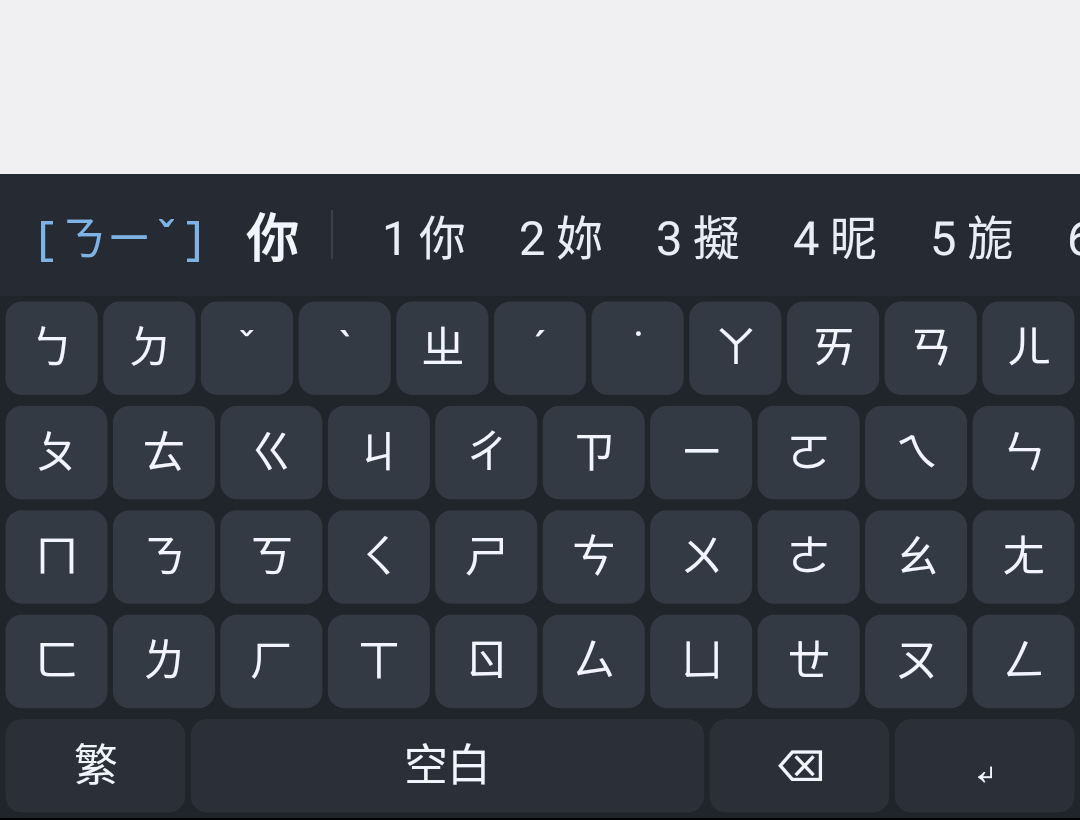
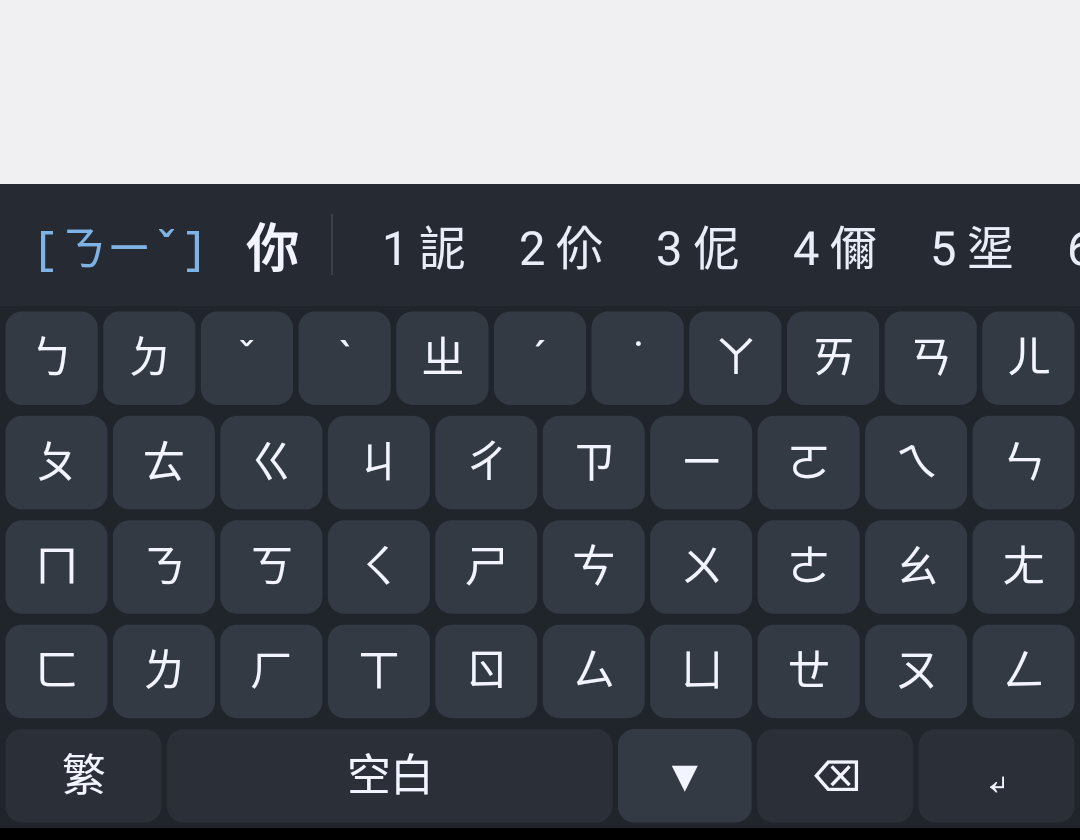
fix(android): 手机上够不到第二页候选 —— 底排补一个浏览键 ▼
翻页在共享路由里是 ↓ 的职责（单没开就开、开了翻十笔），而手机键盘上没有 ↓，
空白在单开着时又是「送出」：第一页十个之后的候选**永远取不到**。

- `Router.kt` 的 `'\u000b'` 补成和桌面版一致：开着 → `NextPage`，没开 →
  `OpenCandidates`（此前只会开）
- 底排加一个 ▼ 键（`'\u000b'`，正是 router 一直当作 ↓ 读的那个字符）
- JVM 测试加 `theDownArrowPagesOnceTheListIsOpen`

模拟器实测：打 `su3`、空白开单显示 `1 你 2 妳 3 擬…`，按 ▼ 翻页换成
`1 鬮 2 噵 3 ▯ 4 儗 5 坭…`，再按两下继续往后。README 的 Android 配图换成带 ▼ 的这张；
`android/README.md` 里「空白有选字单时翻页」那句也一并改准（翻页不归空白管）。

diff --git a/android/app/src/main/java/tw/pingzhu/ime/Router.kt b/android/app/src/main/java/tw/pingzhu/ime/Router.kt
@@ -46,8 +46,20 @@ object Router {
         // user is editing — a shell that swallows it makes the key stop
         // deleting, which is how this was found (the shared vectors).
         '\b', '\u007f' -> if (composing) Action.Backspace else Action.Pass
-        // Nothing to browse without a composition to resolve.
-        '\u000b' -> if (composing && hasCandidates) Action.OpenCandidates else Action.Pass
+        // The browsing key, and one key for both halves of browsing: press it
+        // with the list closed and it opens; press it with the list open and it
+        // moves on ten. Nothing to browse without a composition to resolve.
+        //
+        // This mirrors the desktop shells' down arrow exactly (windows/src/
+        // router.cpp, `case KeyKind::ArrowDown`). It used to only open, which
+        // left every candidate past the first ten unreachable on a phone: the
+        // keyboard has no arrow keys, so this key is the only way to ask for
+        // page two.
+        '\u000b' -> when {
+            !composing || !hasCandidates -> Action.Pass
+            windowOpen -> Action.NextPage
+            else -> Action.OpenCandidates
+        }
         '\u000c' -> Action.CloseCandidates // form feed: the up arrow
         // Space ends in an acceptance, but not on its first press. A first press
         // that committed would leave the second candidate unreachable unless the

diff --git a/android/app/src/main/java/tw/pingzhu/ime/PingZhuImeService.kt b/android/app/src/main/java/tw/pingzhu/ime/PingZhuImeService.kt
@@ -264,6 +264,14 @@ class PingZhuImeService : InputMethodService() {
         val bottom = listOf(
             scriptKey,
             KeyboardView.Key(' ', "空白", weight = 4f, function = KeyboardView.Key.Function.Space),
+            /*
+             * The browsing key. A phone board has no arrow keys, so the job the
+             * desktop shells give the down arrow — open the list, then move on
+             * ten — needs a key of its own, or nothing past the first ten
+             * candidates can be reached. The character is the one the router has
+             * always read as a down arrow (Router.kt).
+             */
+            KeyboardView.Key('\u000b', "▼", weight = 1.2f),
             KeyboardView.Key(
                 '\b', "⌫", weight = 1.4f,
                 function = KeyboardView.Key.Function.Backspace,

diff --git a/android/app/src/test/java/tw/pingzhu/ime/RouterTest.kt b/android/app/src/test/java/tw/pingzhu/ime/RouterTest.kt
@@ -152,4 +152,13 @@ class RouterTest {
         assertEquals(Action.Pass, composing('\u000b'))
         assertEquals(Action.Pass, idle('\u000b'))
     }
+
+    @Test
+    fun theDownArrowPagesOnceTheListIsOpen() {
+        // One key for both halves of browsing, as on the desktop: with the list
+        // already open the same press moves on ten instead of reopening the
+        // first page. On a phone this is the only way to reach candidate eleven
+        // — the board has no arrow keys to do it with.
+        assertEquals(Action.NextPage, choosing('\u000b'))
+    }
 }

diff --git a/android/README.md b/android/README.md
@@ -45,9 +45,9 @@ Rust 那边有两个测试把两者钉在一起：
 APK、不需要装置。
 
 这些规则不是重新设计的——它们和 Windows 的 router 逐条对应，因为**真正重要的规则
-跟平台无关**：空白键在没有选字单时送出整句、有选字单时翻页；数字键在选字单打开前
-是注音键。第二条 Windows 版曾经做错过一个版本，代价是**所有以 ㄅㄉㄓㄚㄞㄢ 开头的字
-都打不出来**。
+跟平台无关**：空白键在组字中、单还没开时开单，单开着时送出整句；翻页归浏览键管
+（桌面版是 ↓，手机上是底排的 ▼）；数字键在选字单打开前是注音键。最后一条 Windows 版
+曾经做错过一个版本，代价是**所有以 ㄅㄉㄓㄚㄞㄢ 开头的字都打不出来**。
 
 ### 零权限
 
@@ -83,7 +83,8 @@ w96j0         → 台灣
 
 | 键 | 行为 |
 |---|---|
-| 空白 | 组字中、单没开、有候选 → **开候选单**（手机上没有 ↓ 键，这个角色由空白兼任）；单开着或没有候选 → 送出整句；没组字 → 空白 |
+| 空白 | 组字中、单没开、有候选 → **开候选单**；单开着或没有候选 → 送出整句；没组字 → 空白 |
+| ▼ | **开候选单／翻页**：单没开就开，开着就翻十笔（桌面版的 ↓ 键在手机上就这一个键）|
 | 数字 | 选字单开着 → 选字；否则 → 照打（1 是 ㄅ、2 是 ㄉ） |
 | ⌫ | 退回一个读音成分；组字中为空时交给应用程式 |
 | ↵ | 送出 |
@@ -105,10 +106,12 @@ w96j0         → 台灣
      量得好好的、就是不上屏。
      现在候选列是**输入视图自己的一部分**（`onCreateInputView` 里一个垂直 `LinearLayout`：
      候选列在上、键盘在下、整体贴底），不经过框架那块容器。
-- **候选单开出来之后不能翻页。** 翻页在共享路由里是 ↓ 的职责（`ArrowDown`：单没开就开，
-  开了就翻十笔），而 Android 的键盘上没有 ↓，空白在单开着时是**送出**。所以第一页
-  十个候选之后的取不到。**尚未修**（要修就得在键盘上给一个翻页键，或者让空白在
-  单开着时先翻页再送出）。
+- ~~候选单开出来之后不能翻页~~ —— **已修**（2026-10-13）。翻页在共享路由里是 ↓ 的职责
+  （`ArrowDown`：单没开就开，开了就翻十笔），而手机键盘上没有 ↓，空白在单开着时又是
+  「送出」，第一页十个之后的候选因此取不到。现在底排多了一个 **▼** 键（`''`，
+  正是 `Router.kt` 一直当作 ↓ 读的那个字符），`Router.kt` 的那一格也补成和桌面版一致：
+  开着 → `NextPage`，没开 → `OpenCandidates`。JVM 测试加了
+  `theDownArrowPagesOnceTheListIsOpen` 盯着它。
 - 尚未实作：手写、语音、表情符号、自订词库介面、主题。
 - 只做 64 位（`arm64-v8a`、`x86_64`）。32 位装置不支援。
 - 没有上架 Google Play，也没有签名金钥——release 用的是 debug 签名。

diff --git a/README.md b/README.md
@@ -70,9 +70,10 @@ under Settings → System → Languages & input → On-screen keyboard, then sel
 ![PingZhu on an Android 13 emulator: a candidate row above the keyboard showing the composition ㄋㄧˇ, the sentence 你, and numbered candidates 1 你 2 妳 3 擬 4 昵 5 旋…](docs/images/android-candidates.png)
 
 *Running on an Android 13 (API 33) emulator — a Pixel-5-sized x86_64 image under KVM inside
-WSL, with the APK installed and the input method selected; `su3` was typed and 空白 pressed.
-The band above the keyboard is the candidate row: the composition being typed, the word
-空白 would commit, and the numbered candidates a digit key picks from. The keyboard is not a
+WSL, with the APK installed and the input method selected; `su3` was typed, 空白 opened the
+list and ▼ paged twice. The band above the keyboard is the candidate row: the composition
+being typed, the word 空白 would commit, and the numbered candidates a digit key picks from.
+▼ is the browsing key — the only one a phone board has, where the desktop shells have ↓. The keyboard is not a
 hand-drawn asset: `Engine.keyboardRows()` derives every key from the same table the decoder
 reads, and a test (`the_drawn_keyboard_matches_the_decoder`) holds the two together. Note the
 digit row — `1` is ㄅ, `3` is ˇ, `6` is ˊ. Those are Bopomofo keys, and they only select while
@@ -486,7 +487,7 @@ Tests, as of 2026-10-11:
 | **1,532 differential cases** | same command | recorded keystroke strings replayed through both implementations; composing text, sentence, score, path words and page 1 must match exactly |
 | **207 interaction scenarios** | same command | selection, paging, cursor movement, mode switches |
 | **4 Windows native suites** | [`windows/`](windows/README.md) | key routing, engine integration, TSF COM contract, candidate-window geometry |
-| **16 Android JVM tests** | [`android/`](android/README.md) | key routing — no emulator needed |
+| **17 Android JVM tests** | [`android/`](android/README.md) | key routing — no emulator needed |
 
 Scheduling, effort and risk: [docs/05-roadmap.md](docs/05-roadmap.md).
 

diff --git a/README.zh-CN.md b/README.zh-CN.md
@@ -61,8 +61,9 @@ HarmonyOS NEXT 与 Linux。
 ![平注在 Android 13 模拟器上：键盘上方一条候选列显示组字 ㄋㄧˇ、句子 你，以及编号的候选 1 你 2 妳 3 擬 4 昵 5 旋…](docs/images/android-candidates.png)
 
 *跑在 Android 13（API 33）模拟器上——Pixel 5 尺寸的 x86_64 镜像，在 WSL 里用 KVM 启动，
-APK 已安装、输入法已选中，图上打了 `su3` 再按空白。键盘上方那条是候选列：左边是正在组字的
-`ㄋㄧˇ`，接着是按空白会送出的词，右边是**编号的候选**，按数字键取用。这个键面不是手画的素材：
+APK 已安装、输入法已选中，图上打了 `su3`、按空白开单、又按 `▼` 翻了两次页。键盘上方那条是
+候选列：左边是正在组字的 `ㄋㄧˇ`，接着是按空白会送出的词，右边是**编号的候选**，按数字键取用；
+底排那个 `▼` 就是翻页键（手机上唯一的浏览键——桌面版是 ↓）。这个键面不是手画的素材：
 `Engine.keyboardRows()` 从**解码器读的同一张表**推出每个键，而且有一个测试
 （`the_drawn_keyboard_matches_the_decoder`）把两者钉在一起。注意数字那一排——`1` 是 ㄅ、
 `3` 是 ˇ、`6` 是 ˊ，它们是注音键，只有在候选列开着的时候才是选字键，和桌面版一致。*
@@ -451,7 +452,7 @@ $ node engine/bench-learn.mjs 5000 --recall
 | **差异测试 1,532 例** | 同上 | 记录下来的按键串分别喂给两份实现；组字文字、句子、分数、路径词、候选第一页必须完全一致 |
 | **互动场景 207 例** | 同上 | 选字、翻页、游标移动、模式切换 |
 | **Windows 原生 4 组** | [`windows/`](windows/README.md) | 按键路由、引擎整合、TSF COM 契约、候选视窗几何 |
-| **Android JVM 16 项** | [`android/`](android/README.md) | 按键路由，不需要模拟器 |
+| **Android JVM 17 项** | [`android/`](android/README.md) | 按键路由，不需要模拟器 |
 
 详细排程、工作量与风险见 [docs/05-roadmap.md](docs/05-roadmap.md)。
 
